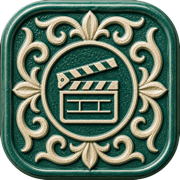
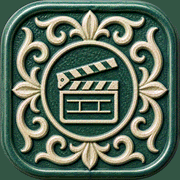
заменил иконки на логотип автора и добавил метатеги установки
Иконки получены из brand/watchlist-logo.png (2048×2048, углы прозрачные), L – логотип, P – apps/watchlist/public:

    magick $L -filter Lanczos -resize 192x192 -strip -dither FloydSteinberg -colors 256 PNG8:$P/icon-192.png
    magick $L -filter Lanczos -resize 512x512 -strip -dither FloydSteinberg -colors 256 PNG8:$P/icon-512.png
    magick $L -filter Lanczos -resize 64x64 -strip -dither FloydSteinberg -colors 256 PNG8:$P/favicon.png
    magick $L -background '#39574A' -alpha remove -alpha off -filter Lanczos -resize 180x180 -strip -dither FloydSteinberg -colors 256 PNG8:$P/apple-touch-icon.png
    oxipng -o max --strip all -q $P/*.png

Палитра на 256 цветов: логотип – текстура, и без квантования icon-512 весит 568 КБ, а service worker заберёт в предкеш всю сборку. Цена – прозрачность в один бит, край скругления у icon-192 и icon-512 без сглаживания; вариант с плавной прозрачностью весит около 256 КБ. apple-touch-icon непрозрачная: iOS заливает прозрачное чёрным, поэтому углы залиты цветом рамки – медианой кольца у края плитки. icon.png и молния Vite больше не нужны.

Цвета theme-color – фон приложения из токенов --background: oklch(1 0 0) и oklch(0.145 0 0).

diff --git a/tests/e2e/app/icons.spec.ts b/tests/e2e/app/icons.spec.ts
@@ -1,0 +1,58 @@
+import type { Page } from "@playwright/test";
+
+import { expect, test } from "../../fixtures/index.ts";
+
+type LoadedIcon = {
+  status: number;
+  contentType: string | null;
+  width: number;
+  height: number;
+  cornerAlphas: number[];
+};
+
+// Иконку берём по ссылке из страницы и раскодируем так, как её раскодирует браузер: битая ссылка
+// или пропавший файл, вместо которого страница отдаёт index.html, видны здесь, а не после
+// установки на телефон.
+async function loadIconLinkedFromPage(page: Page, rel: string): Promise<LoadedIcon> {
+  return page.evaluate(async (linkRel) => {
+    const link = document.querySelector<HTMLLinkElement>(`link[rel="${linkRel}"]`);
+    if (!link) throw new Error(`На странице нет <link rel="${linkRel}">`);
+    const response = await fetch(link.href);
+    const bitmap = await createImageBitmap(await response.blob());
+    const canvas = document.createElement("canvas");
+    canvas.width = bitmap.width;
+    canvas.height = bitmap.height;
+    const context = canvas.getContext("2d")!;
+    context.drawImage(bitmap, 0, 0);
+    return {
+      status: response.status,
+      contentType: response.headers.get("content-type"),
+      width: bitmap.width,
+      height: bitmap.height,
+      cornerAlphas: [
+        [0, 0],
+        [bitmap.width - 1, 0],
+        [0, bitmap.height - 1],
+        [bitmap.width - 1, bitmap.height - 1],
+      ].map(([x, y]) => context.getImageData(x!, y!, 1, 1).data[3]!),
+    };
+  }, rel);
+}
+
+test("иконка вкладки отдаётся приложением как PNG 64×64", async ({ page }) => {
+  await page.goto("/");
+
+  const icon = await loadIconLinkedFromPage(page, "icon");
+
+  expect(icon).toMatchObject({ status: 200, contentType: "image/png", width: 64, height: 64 });
+});
+
+// iOS заливает прозрачные места иконки чёрным, поэтому углы apple-touch-icon должны быть закрашены.
+test("apple-touch-icon отдаётся приложением как непрозрачный PNG 180×180", async ({ page }) => {
+  await page.goto("/");
+
+  const icon = await loadIconLinkedFromPage(page, "apple-touch-icon");
+
+  expect(icon).toMatchObject({ status: 200, contentType: "image/png", width: 180, height: 180 });
+  expect(icon.cornerAlphas).toEqual([255, 255, 255, 255]);
+});

diff --git a/apps/watchlist/index.html b/apps/watchlist/index.html
@@ -2,13 +2,19 @@
 <html lang="ru">
   <head>
     <meta charset="UTF-8" />
-    <link rel="icon" type="image/svg+xml" href="/favicon.svg" />
+    <link rel="icon" type="image/png" href="/favicon.png" />
     <link rel="apple-touch-icon" href="/apple-touch-icon.png" />
     <!-- viewport-fit=cover: без него Safari 26 рисует сплошную полосу и тонирует её в зазоре
          между контентом и стеклянными контролами. С ним контент тянется под статус-зону и
          полоску «домой», поэтому экраны сами отступают через env(safe-area-inset-*): без
          метатега эти отступы перестанут работать. -->
     <meta name="viewport" content="width=device-width, initial-scale=1.0, viewport-fit=cover" />
+    <meta name="theme-color" content="#ffffff" media="(prefers-color-scheme: light)" />
+    <meta name="theme-color" content="#0a0a0a" media="(prefers-color-scheme: dark)" />
+    <meta name="apple-mobile-web-app-capable" content="yes" />
+    <meta name="mobile-web-app-capable" content="yes" />
+    <meta name="apple-mobile-web-app-title" content="Вотчлист" />
+    <meta name="apple-mobile-web-app-status-bar-style" content="default" />
     <title>Вотчлист</title>
     <!-- Встроенный и синхронный: класс dark должен встать до первой отрисовки, а модуль
          приложения выполняется позже. Если появится CSP, скрипт разрешают по хешу. -->
